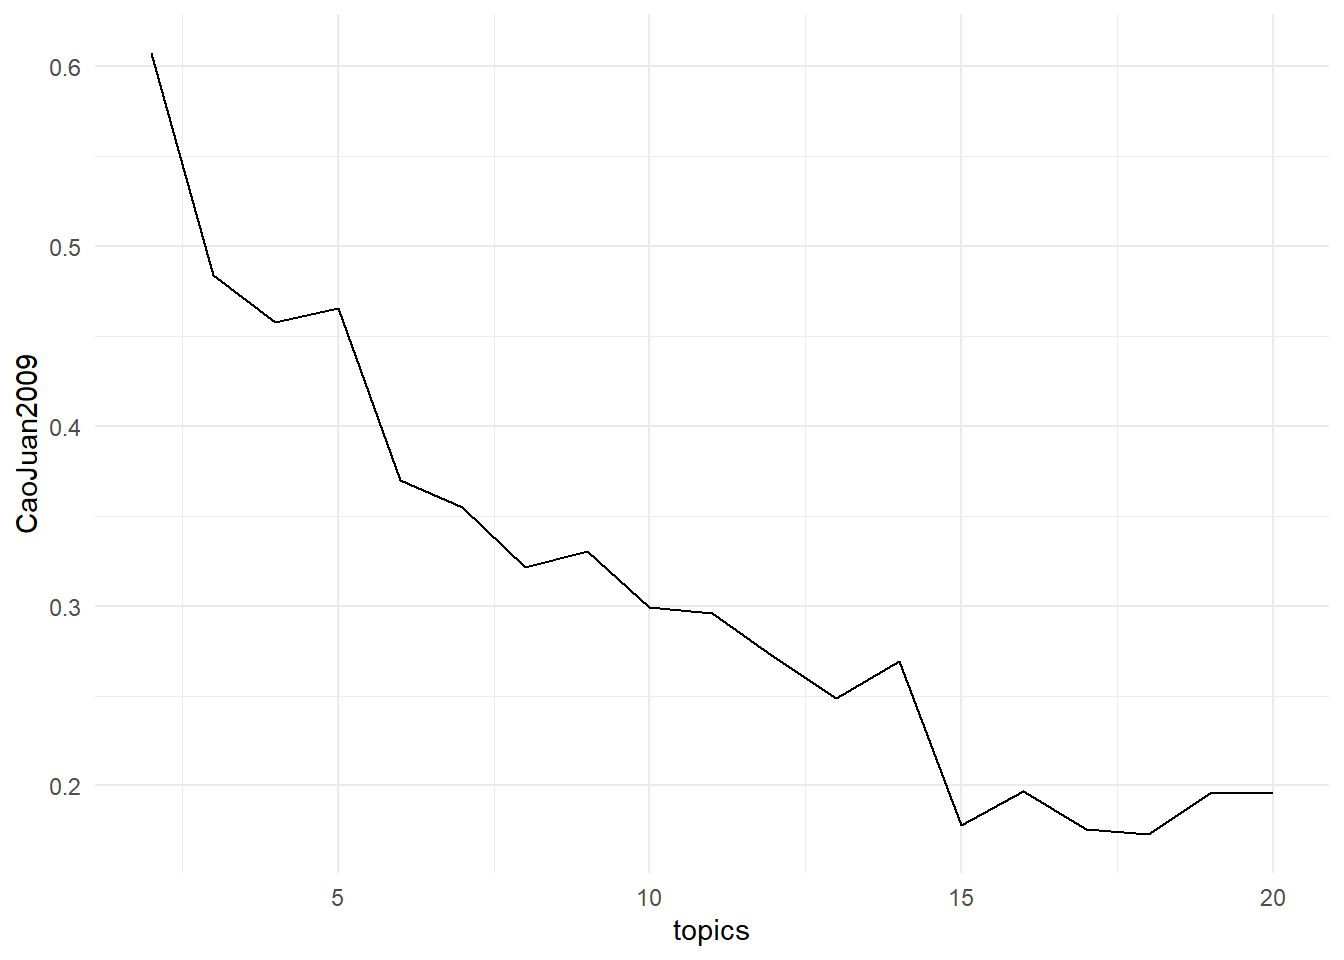
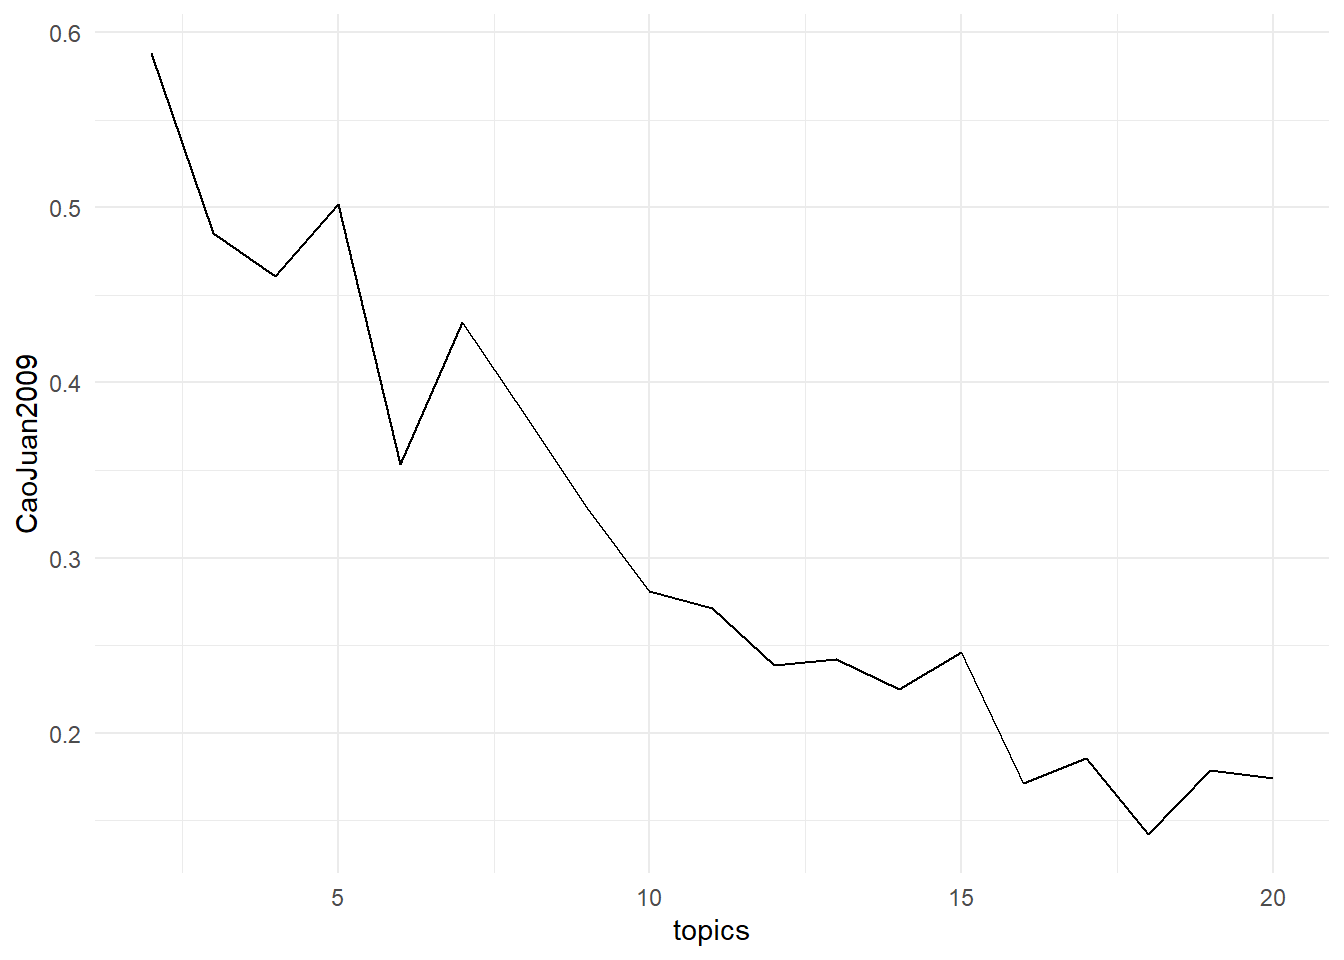
image update

diff --git a/docs/featured_projects/textAnalysis/index.html b/docs/featured_projects/textAnalysis/index.html
@@ -310,25 +310,25 @@ calculate metrics:
 <div class="sourceCode cell-code" id="cb7"><pre class="sourceCode r code-with-copy"><code class="sourceCode r"><span id="cb7-1"><a href="#cb7-1" aria-hidden="true" tabindex="-1"></a>results</span></code><button title="Copy to Clipboard" class="code-copy-button"><i class="bi"></i></button></pre></div>
 <div class="cell-output cell-output-stdout">
 <pre><code>   topics CaoJuan2009 Deveaud2014
-1      20   0.1955305    1.322082
-2      19   0.1957988    1.300758
-3      18   0.1727954    1.372096
-4      17   0.1758917    1.389055
-5      16   0.1968757    1.404230
-6      15   0.1778003    1.489097
-7      14   0.2693199    1.434492
-8      13   0.2487797    1.457436
-9      12   0.2713732    1.476404
-10     11   0.2961843    1.520100
-11     10   0.2990531    1.552020
-12      9   0.3306025    1.552584
-13      8   0.3214498    1.535469
-14      7   0.3549659    1.595297
-15      6   0.3697939    1.522013
-16      5   0.4653806    1.542453
-17      4   0.4577532    1.578407
-18      3   0.4840355    1.570365
-19      2   0.6073163    1.583504</code></pre>
+1      20   0.1742275    1.300767
+2      19   0.1786294    1.354675
+3      18   0.1420013    1.413899
+4      17   0.1857903    1.395219
+5      16   0.1715692    1.440370
+6      15   0.2458650    1.417818
+7      14   0.2249723    1.447064
+8      13   0.2422587    1.494927
+9      12   0.2388579    1.496121
+10     11   0.2714194    1.525100
+11     10   0.2811137    1.553163
+12      9   0.3285271    1.523071
+13      8   0.3811415    1.498411
+14      7   0.4343982    1.503847
+15      6   0.3535829    1.623160
+16      5   0.5015166    1.523753
+17      4   0.4607067    1.589695
+18      3   0.4851089    1.597421
+19      2   0.5878760    1.576007</code></pre>
 </div>
 </div>
 <div class="cell">
@@ -351,23 +351,23 @@ calculate metrics:
 <div class="sourceCode cell-code" id="cb11"><pre class="sourceCode r code-with-copy"><code class="sourceCode r"><span id="cb11-1"><a href="#cb11-1" aria-hidden="true" tabindex="-1"></a><span class="co"># Plot the top terms in each topic</span></span>
 <span id="cb11-2"><a href="#cb11-2" aria-hidden="true" tabindex="-1"></a><span class="fu">terms</span>(topicModel_k2, <span class="dv">10</span>) <span class="co"># Most probable words in each topic</span></span></code><button title="Copy to Clipboard" class="code-copy-button"><i class="bi"></i></button></pre></div>
 <div class="cell-output cell-output-stdout">
-<pre><code>      Topic 1   Topic 2        
- [1,] "bears"   "polar"        
- [2,] "polar"   "bear"         
- [3,] "ice"     "bears"        
- [4,] "land"    "ice"          
- [5,] "energy"  "arctic"       
- [6,] "study"   "wildlife"     
- [7,] "said"    "international"
- [8,] "time"    "said"         
- [9,] "sea"     "will"         
-[10,] "climate" "day"          </code></pre>
+<pre><code>      Topic 1         Topic 2 
+ [1,] "polar"         "bears" 
+ [2,] "bear"          "polar" 
+ [3,] "bears"         "land"  
+ [4,] "ice"           "ice"   
+ [5,] "arctic"        "energy"
+ [6,] "international" "study" 
+ [7,] "day"           "said"  
+ [8,] "climate"       "sea"   
+ [9,] "animals"       "time"  
+[10,] "sea"           "seals" </code></pre>
 </div>
 <div class="sourceCode cell-code" id="cb13"><pre class="sourceCode r code-with-copy"><code class="sourceCode r"><span id="cb13-1"><a href="#cb13-1" aria-hidden="true" tabindex="-1"></a>tmResult <span class="ot">&lt;-</span> <span class="fu">posterior</span>(topicModel_k2)</span>
 <span id="cb13-2"><a href="#cb13-2" aria-hidden="true" tabindex="-1"></a><span class="fu">terms</span>(topicModel_k2)</span></code><button title="Copy to Clipboard" class="code-copy-button"><i class="bi"></i></button></pre></div>
 <div class="cell-output cell-output-stdout">
 <pre><code>Topic 1 Topic 2 
-"bears" "polar" </code></pre>
+"polar" "bears" </code></pre>
 </div>
 <div class="sourceCode cell-code" id="cb15"><pre class="sourceCode r code-with-copy"><code class="sourceCode r"><span id="cb15-1"><a href="#cb15-1" aria-hidden="true" tabindex="-1"></a>theta <span class="ot">&lt;-</span> tmResult<span class="sc">$</span>topics</span>
 <span id="cb15-2"><a href="#cb15-2" aria-hidden="true" tabindex="-1"></a>beta <span class="ot">&lt;-</span> tmResult<span class="sc">$</span>terms</span>
@@ -395,103 +395,108 @@ calculate metrics:
 <tbody>
 <tr class="odd">
 <td style="text-align: right;">1</td>
-<td style="text-align: left;">bears</td>
-<td style="text-align: right;">0.0598090</td>
+<td style="text-align: left;">polar</td>
+<td style="text-align: right;">0.0627110</td>
 </tr>
 <tr class="even">
 <td style="text-align: right;">1</td>
-<td style="text-align: left;">polar</td>
-<td style="text-align: right;">0.0340261</td>
+<td style="text-align: left;">bear</td>
+<td style="text-align: right;">0.0422563</td>
 </tr>
 <tr class="odd">
+<td style="text-align: right;">1</td>
+<td style="text-align: left;">bears</td>
+<td style="text-align: right;">0.0284536</td>
+</tr>
+<tr class="even">
 <td style="text-align: right;">1</td>
 <td style="text-align: left;">ice</td>
-<td style="text-align: right;">0.0168375</td>
-</tr>
-<tr class="even">
-<td style="text-align: right;">1</td>
-<td style="text-align: left;">land</td>
-<td style="text-align: right;">0.0164744</td>
+<td style="text-align: right;">0.0129879</td>
 </tr>
 <tr class="odd">
 <td style="text-align: right;">1</td>
-<td style="text-align: left;">energy</td>
-<td style="text-align: right;">0.0141745</td>
+<td style="text-align: left;">arctic</td>
+<td style="text-align: right;">0.0108260</td>
 </tr>
 <tr class="even">
 <td style="text-align: right;">1</td>
-<td style="text-align: left;">study</td>
-<td style="text-align: right;">0.0140535</td>
+<td style="text-align: left;">international</td>
+<td style="text-align: right;">0.0098282</td>
 </tr>
 <tr class="odd">
 <td style="text-align: right;">1</td>
-<td style="text-align: left;">said</td>
-<td style="text-align: right;">0.0095748</td>
-</tr>
-<tr class="even">
-<td style="text-align: right;">1</td>
-<td style="text-align: left;">time</td>
-<td style="text-align: right;">0.0092116</td>
-</tr>
-<tr class="odd">
-<td style="text-align: right;">1</td>
-<td style="text-align: left;">sea</td>
-<td style="text-align: right;">0.0092116</td>
+<td style="text-align: left;">day</td>
+<td style="text-align: right;">0.0089967</td>
 </tr>
 <tr class="even">
 <td style="text-align: right;">1</td>
 <td style="text-align: left;">climate</td>
-<td style="text-align: right;">0.0083643</td>
+<td style="text-align: right;">0.0088304</td>
 </tr>
 <tr class="odd">
-<td style="text-align: right;">2</td>
-<td style="text-align: left;">polar</td>
-<td style="text-align: right;">0.0607733</td>
+<td style="text-align: right;">1</td>
+<td style="text-align: left;">animals</td>
+<td style="text-align: right;">0.0083315</td>
 </tr>
 <tr class="even">
-<td style="text-align: right;">2</td>
-<td style="text-align: left;">bear</td>
-<td style="text-align: right;">0.0415338</td>
+<td style="text-align: right;">1</td>
+<td style="text-align: left;">sea</td>
+<td style="text-align: right;">0.0083315</td>
 </tr>
 <tr class="odd">
 <td style="text-align: right;">2</td>
 <td style="text-align: left;">bears</td>
-<td style="text-align: right;">0.0231381</td>
+<td style="text-align: right;">0.0562931</td>
+</tr>
+<tr class="even">
+<td style="text-align: right;">2</td>
+<td style="text-align: left;">polar</td>
+<td style="text-align: right;">0.0323125</td>
+</tr>
+<tr class="odd">
+<td style="text-align: right;">2</td>
+<td style="text-align: left;">land</td>
+<td style="text-align: right;">0.0166518</td>
 </tr>
 <tr class="even">
 <td style="text-align: right;">2</td>
 <td style="text-align: left;">ice</td>
-<td style="text-align: right;">0.0108180</td>
+<td style="text-align: right;">0.0153059</td>
 </tr>
 <tr class="odd">
 <td style="text-align: right;">2</td>
-<td style="text-align: left;">arctic</td>
-<td style="text-align: right;">0.0108180</td>
+<td style="text-align: left;">energy</td>
+<td style="text-align: right;">0.0143271</td>
 </tr>
 <tr class="even">
 <td style="text-align: right;">2</td>
-<td style="text-align: left;">wildlife</td>
-<td style="text-align: right;">0.0103117</td>
+<td style="text-align: left;">study</td>
+<td style="text-align: right;">0.0142048</td>
 </tr>
 <tr class="odd">
-<td style="text-align: right;">2</td>
-<td style="text-align: left;">international</td>
-<td style="text-align: right;">0.0099742</td>
-</tr>
-<tr class="even">
 <td style="text-align: right;">2</td>
 <td style="text-align: left;">said</td>
-<td style="text-align: right;">0.0098054</td>
-</tr>
-<tr class="odd">
-<td style="text-align: right;">2</td>
-<td style="text-align: left;">will</td>
-<td style="text-align: right;">0.0092991</td>
+<td style="text-align: right;">0.0115131</td>
 </tr>
 <tr class="even">
 <td style="text-align: right;">2</td>
-<td style="text-align: left;">day</td>
-<td style="text-align: right;">0.0091303</td>
+<td style="text-align: left;">sea</td>
+<td style="text-align: right;">0.0094332</td>
+</tr>
+<tr class="odd">
+<td style="text-align: right;">2</td>
+<td style="text-align: left;">time</td>
+<td style="text-align: right;">0.0093108</td>
+</tr>
+<tr class="even">
+<td style="text-align: right;">2</td>
+<td style="text-align: left;">seals</td>
+<td style="text-align: right;">0.0080873</td>
+</tr>
+<tr class="odd">
+<td style="text-align: right;">2</td>
+<td style="text-align: left;">research</td>
+<td style="text-align: right;">0.0080873</td>
 </tr>
 </tbody>
 </table>

diff --git a/docs/featured_projects/calcofi/index.html b/docs/featured_projects/calcofi/index.html
@@ -387,13 +387,13 @@ memory usage: 204.6 KB</code></pre>
 <span id="cb19-4"><a href="#cb19-4" aria-hidden="true" tabindex="-1"></a><span class="co">#print the model score</span></span>
 <span id="cb19-5"><a href="#cb19-5" aria-hidden="true" tabindex="-1"></a><span class="bu">print</span>(<span class="ss">f"Model score: </span><span class="sc">{</span>pipeline<span class="sc">.</span>score(X_test, y_test)<span class="sc">}</span><span class="ss">"</span>)</span></code><button title="Copy to Clipboard" class="code-copy-button"><i class="bi"></i></button></pre></div>
 <div class="cell-output cell-output-stdout">
-<pre><code>Model score: 0.9974991316613688</code></pre>
+<pre><code>Model score: 0.9975388981683524</code></pre>
 </div>
 <div class="sourceCode cell-code" id="cb21"><pre class="sourceCode python code-with-copy"><code class="sourceCode python"><span id="cb21-1"><a href="#cb21-1" aria-hidden="true" tabindex="-1"></a><span class="co"># Calculate mean squared error</span></span>
 <span id="cb21-2"><a href="#cb21-2" aria-hidden="true" tabindex="-1"></a>squared_error <span class="op">=</span> mean_squared_error(y_test, y_pred)</span>
 <span id="cb21-3"><a href="#cb21-3" aria-hidden="true" tabindex="-1"></a><span class="bu">print</span>(<span class="ss">f"Mean squared error: </span><span class="sc">{</span>squared_error<span class="sc">}</span><span class="ss">"</span>)</span></code><button title="Copy to Clipboard" class="code-copy-button"><i class="bi"></i></button></pre></div>
 <div class="cell-output cell-output-stdout">
-<pre><code>Mean squared error: 33.43055687624876</code></pre>
+<pre><code>Mean squared error: 32.89897492411298</code></pre>
 </div>
 </div>
 <p>Doing stochastic gradient descent did not improve anything in the model. First thing to note is that, model is already 99% accurate. Using SGD appraoch increased accuracy by 0.0001, which is not a massive improvement. But when model imporoved by that factor, the MAE value increased. This means bias increased, which we don’t want. <strong>cross validation</strong></p>
@@ -488,7 +488,7 @@ memory usage: 204.6 KB</code></pre>
 [30]    train-rmse:1.64633+0.06258  test-rmse:6.04879+2.23034
 [40]    train-rmse:1.29777+0.05879  test-rmse:6.02162+2.23979
 [50]    train-rmse:1.02154+0.05521  test-rmse:5.99733+2.23518
-[54]    train-rmse:0.93376+0.05252  test-rmse:6.00336+2.23321</code></pre>
+[53]    train-rmse:0.95655+0.05754  test-rmse:6.00205+2.23493</code></pre>
 </div>
 <div class="sourceCode cell-code" id="cb34"><pre class="sourceCode python code-with-copy"><code class="sourceCode python"><span id="cb34-1"><a href="#cb34-1" aria-hidden="true" tabindex="-1"></a></span>
 <span id="cb34-2"><a href="#cb34-2" aria-hidden="true" tabindex="-1"></a><span class="co"># Extract the optimal number of boosting rounds</span></span>
@@ -510,7 +510,8 @@ memory usage: 204.6 KB</code></pre>
 <pre><code>[0] train-rmse:79.30237 validation-rmse:81.82718
 [10]    train-rmse:4.39108  validation-rmse:6.71929
 [20]    train-rmse:2.09378  validation-rmse:5.87060
-[30]    train-rmse:1.63902  validation-rmse:5.85949</code></pre>
+[30]    train-rmse:1.63902  validation-rmse:5.85949
+[31]    train-rmse:1.59516  validation-rmse:5.86161</code></pre>
 </div>
 <div class="sourceCode cell-code" id="cb37"><pre class="sourceCode python code-with-copy"><code class="sourceCode python"><span id="cb37-1"><a href="#cb37-1" aria-hidden="true" tabindex="-1"></a><span class="co"># #predict on the the test matrix</span></span>
 <span id="cb37-2"><a href="#cb37-2" aria-hidden="true" tabindex="-1"></a>preds <span class="op">=</span> model_xgb.predict(dtest_reg)</span>
